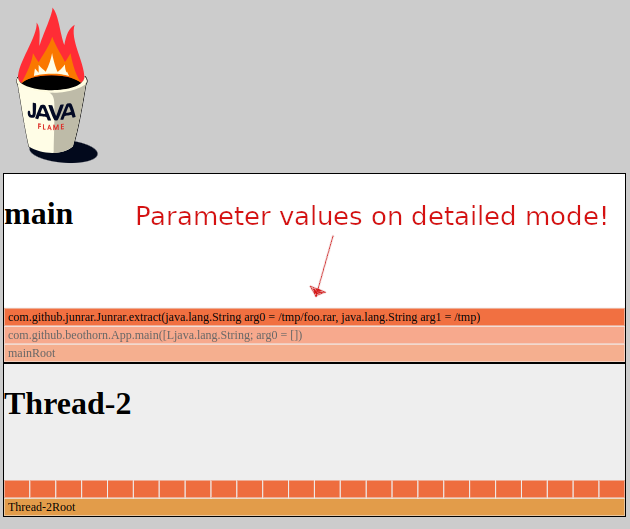
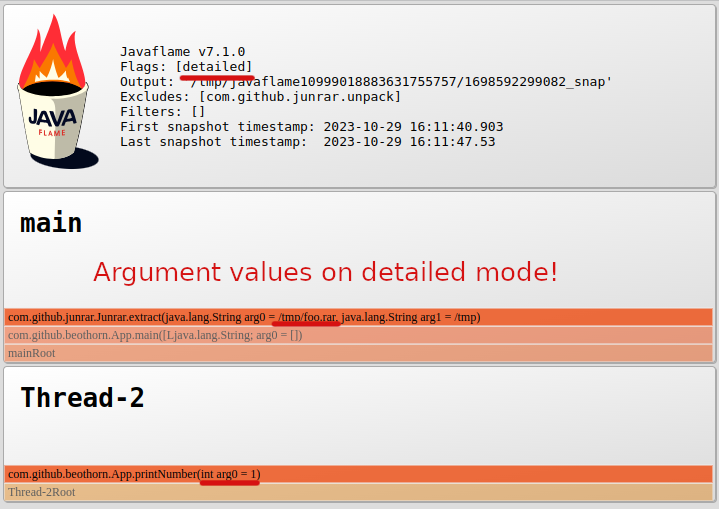
Improved output with metadata

diff --git a/javaAgent/src/main/resources/com/github/beothorn/agent/index.html b/javaAgent/src/main/resources/com/github/beothorn/agent/index.html
@@ -5,13 +5,55 @@
     <link rel="stylesheet" type="text/css" href="style.css">
 </head>
 <body>
-<img width="100px" src="./logo.svg"><img/>
+
+<div id="header" class="box">
+    <img id="logo" width="100px" src="./logo.svg"/>
+    <div id="metadata">
+        <p>Javaflame v7.1.0</p>
+        <p id="arguments"></p>
+        <p>First snapshot timestamp: <span id="startTimestamp"></span></p>
+        <p>Last snapshot timestamp: &nbsp;<span id="finalTimestamp"></span></p>
+    </div>
+</div>
+
 <div id="charts"></div>
 <script type="text/javascript" src="d3.v7.js"></script>
 <script type="text/javascript" src="d3-flamegraph.min.js"></script>
 <script type="text/javascript" src="data.js"></script>
 <script type="text/javascript" src="code.js"></script>
 <script type="text/javascript">
+
+    const argumentsField = document.getElementById("arguments");
+    argumentsField.innerHTML = executionMetadata;
+
+    const firstSnapshot = document.getElementById("startTimestamp");
+    const firstSnapshotTimestamp = data[0][0].snapshotTime;
+    const firstSnapshotDate = new Date(firstSnapshotTimestamp);
+    const firstSnapshotTimestampFormatted = 
+        `${firstSnapshotDate.getFullYear()}-`+
+        `${firstSnapshotDate.getMonth()+1}-`+
+        `${firstSnapshotDate.getDate()} `+
+        `${firstSnapshotDate.getHours()}:`+
+        `${firstSnapshotDate.getMinutes()}:`+
+        `${firstSnapshotDate.getSeconds()}.`+
+        `${firstSnapshotDate.getMilliseconds()}`;
+    firstSnapshot.appendChild(document.createTextNode(firstSnapshotTimestampFormatted));
+
+    const finalSnapshot = document.getElementById("finalTimestamp");
+    const finalSnapshotTimestamp = data[data.length-1][0].snapshotTime;
+    
+    const lastSnapshot = document.getElementById("finalTimestamp");
+    const lastSnapshotTimestamp = data[data.length-1][0].snapshotTime;
+    const lastSnapshotDate = new Date(lastSnapshotTimestamp);
+    const lastSnapshotTimestampFormatted = 
+        `${lastSnapshotDate.getFullYear()}-`+
+        `${lastSnapshotDate.getMonth()+1}-`+
+        `${lastSnapshotDate.getDate()} `+
+        `${lastSnapshotDate.getHours()}:`+
+        `${lastSnapshotDate.getMinutes()}:`+
+        `${lastSnapshotDate.getSeconds()}.`+
+        `${lastSnapshotDate.getMilliseconds()}`;
+    lastSnapshot.appendChild(document.createTextNode(lastSnapshotTimestampFormatted));
 
     const charts = document.getElementById("charts");
 
@@ -20,20 +62,17 @@
 
     for(let i = 0; i < mergedData.length; i++){
         const newDiv = document.createElement("div");
-        if(i%2==0){
-            newDiv.className = "threadChartLight";
-        }else{
-            newDiv.className = "threadChartDark";
-        }
+        newDiv.classList.add("box");
         newDiv.id = "chart"+i;
         const threadName = document.createElement("h1");
+        threadName.classList.add("threadName");
         threadName.appendChild(document.createTextNode(mergedData[i].thread));
         newDiv.appendChild(threadName);
         charts.appendChild(newDiv);
         // get div charts width
         const chartsWidth = charts.offsetWidth;
 
-        var chart = flamegraph().width(chartsWidth - 2); // minus border
+        var chart = flamegraph().width(chartsWidth - 10); // minus border
 
         d3.select("#"+newDiv.id)
             .datum(mergedData[i].span)

diff --git a/javaAgent/src/main/resources/com/github/beothorn/agent/data.js b/javaAgent/src/main/resources/com/github/beothorn/agent/data.js
@@ -1,0 +1,33 @@
+var executionMetadata = "some arguments";
+
+var data = [[
+{"thread":"main","snapshotTime":1698585698020,"span":{"name":"mainRoot","entryTime":1698585697056,"exitTime":1698585697452,"value":396,"children":[{"name":"com.github.beothorn.App.main([Ljava.lang.String; arg0 = [])","entryTime":1698585697056,"exitTime":1698585697452,"value":396,"children":[{"name":"com.github.junrar.Junrar.extract(java.lang.String arg0 = /tmp/foo.rar, java.lang.String arg1 = /tmp)","entryTime":1698585697254,"exitTime":1698585697452,"value":198,"children":[{"name":"com.github.junrar.Junrar.validateRarPath(java.io.File arg0 = /tmp/foo.rar)","entryTime":1698585697452,"exitTime":1698585697452,"value":0}
+]}
+]}
+]}
+},{"thread":"Thread-2","snapshotTime":1698585698054,"span":{"name":"Thread-2Root","entryTime":1698585697061,"exitTime":-1,"value":0,"children":[{"name":"com.github.beothorn.App.printNumber(int arg0 = 0)","entryTime":1698585697061,"exitTime":1698585697261,"value":200}
+,{"name":"com.github.beothorn.App.printNumber(int arg0 = 1)","entryTime":1698585697270,"exitTime":1698585697470,"value":200}
+,{"name":"com.github.beothorn.App.printNumber(int arg0 = 2)","entryTime":1698585697470,"exitTime":1698585697670,"value":200}
+,{"name":"com.github.beothorn.App.printNumber(int arg0 = 3)","entryTime":1698585697670,"exitTime":1698585697871,"value":201}
+]}
+}
+],
+[
+{"thread":"Thread-2","snapshotTime":1698585699057,"span":{"name":"Thread-2Root","entryTime":1698585697061,"exitTime":-1,"value":0,"children":[{"name":"com.github.beothorn.App.printNumber(int arg0 = 4)","entryTime":1698585697871,"exitTime":1698585698071,"value":200}
+,{"name":"com.github.beothorn.App.printNumber(int arg0 = 5)","entryTime":1698585698071,"exitTime":1698585698271,"value":200}
+,{"name":"com.github.beothorn.App.printNumber(int arg0 = 6)","entryTime":1698585698272,"exitTime":1698585698472,"value":200}
+,{"name":"com.github.beothorn.App.printNumber(int arg0 = 7)","entryTime":1698585698472,"exitTime":1698585698672,"value":200}
+,{"name":"com.github.beothorn.App.printNumber(int arg0 = 8)","entryTime":1698585698672,"exitTime":1698585698873,"value":201}
+]}
+}
+],
+[
+{"thread":"Thread-2","snapshotTime":1698585700061,"span":{"name":"Thread-2Root","entryTime":1698585697061,"exitTime":-1,"value":0,"children":[{"name":"com.github.beothorn.App.printNumber(int arg0 = 9)","entryTime":1698585698873,"exitTime":1698585699073,"value":200}
+,{"name":"com.github.beothorn.App.printNumber(int arg0 = 10)","entryTime":1698585699074,"exitTime":1698585699274,"value":200}
+,{"name":"com.github.beothorn.App.printNumber(int arg0 = 11)","entryTime":1698585699274,"exitTime":1698585699475,"value":201}
+,{"name":"com.github.beothorn.App.printNumber(int arg0 = 12)","entryTime":1698585699475,"exitTime":1698585699675,"value":200}
+,{"name":"com.github.beothorn.App.printNumber(int arg0 = 13)","entryTime":1698585699675,"exitTime":1698585699876,"value":201}
+]}
+}
+],
+];

diff --git a/javaAgent/src/main/resources/com/github/beothorn/agent/style.css b/javaAgent/src/main/resources/com/github/beothorn/agent/style.css
@@ -1,12 +1,43 @@
 body {
-    background: #ccc;
+    margin: 0;
+    padding: 0;
+    background: #ddd;
 }
 
-.threadChartLight {
-    background: #fff;
-    border: 1px solid #000;
+.box {
+    border: 1px solid #aaa;
+    border-radius: 4px;
+    margin: 3px;
+    box-shadow: 1px 1px 0px 0px #aaa;
+    background-image: linear-gradient(to bottom right, white, #dbdbdb);
 }
-.threadChartDark {
-    background: #eee;
-    border: 1px solid #000;
+
+#header {
+    padding: 1rem;
+    height: 150px;
+}
+
+#metadata {
+    display: flex;
+    align-items: flex-start;
+    justify-content: center;
+    flex-direction: column;
+    height: 150px;
+}
+
+#header p {
+    margin: 0;
+    padding: 0;
+    font-family: monospace;
+}
+
+#logo {
+    float: left;
+    margin: -1rem;
+    margin-right: 1rem;
+}
+
+.threadName {
+    margin: 1rem;
+    font-family: monospace;
 }

diff --git a/javaAgent/src/main/java/com/github/beothorn/agent/MethodInstrumentationAgent.java b/javaAgent/src/main/java/com/github/beothorn/agent/MethodInstrumentationAgent.java
@@ -28,7 +28,7 @@ public class MethodInstrumentationAgent {
 
     private static File snapshotDirectory;
 
-    private static long SAVE_SNAPSHOT_INTERVAL_MILLIS = 1000L;
+    private static final long SAVE_SNAPSHOT_INTERVAL_MILLIS = 1000L;
 
     public enum Flag{
 
@@ -123,11 +123,17 @@ public class MethodInstrumentationAgent {
         List<String> excludes = argumentExcludes(argument);
         List<String> filters = argumentFilter(argument);
 
-        log(DEBUG, " logLevel :" + currentLevel.name()
-                + " flags:" + Arrays.toString(Flag.allFlagsOnArgument(argument))
+        String executionMetadata = "logLevel :" + currentLevel.name()
+                + " flags:" + Arrays.toString(allFlagsOnArgument(argument))
                 + " output to '" + snapshotDirectory.getAbsolutePath() + "'"
                 + " excludes:" + Arrays.toString(excludes.toArray())
-                + " filters:" + Arrays.toString(filters.toArray()));
+                + " filters:" + Arrays.toString(filters.toArray());
+        log(DEBUG, executionMetadata);
+
+        String executionMetadataFormatted = "<p>Flags: " + Arrays.toString(allFlagsOnArgument(argument)) + "</p>"
+                + "<p>Output: '" + snapshotDirectory.getAbsolutePath() + "'</p>"
+                + "<p>Excludes: " + Arrays.toString(excludes.toArray()) + "</p>"
+                + "<p>Filters: " + Arrays.toString(filters.toArray()) + "</p>";
 
         ElementMatcher.Junction<TypeDescription> argumentsMatcher = getMatcherFromAruments(excludes, filters);
 
@@ -165,7 +171,8 @@ public class MethodInstrumentationAgent {
                             log(INFO, "Snapshot '" + dataFile.getAbsolutePath() + "'");
                         } else {
                             try (FileWriter fw = new FileWriter(dataFile)) {
-                                String content = "var data = [" + oldCallStack + ",\n];";
+                                String content = "var executionMetadata = \""+executionMetadataFormatted+"\";\n" +
+                                        "var data = [" + oldCallStack + ",\n];";
                                 fw.write(content);
                                 fw.flush();
                             } catch (IOException e) {

diff --git a/README.md b/README.md
@@ -2,17 +2,11 @@
 
 Simple and easy flame graph for java.  
 No servers or open connections, just plug the agent and get the results.  
-[Latest release v7.0.1](https://github.com/beothorn/javaflame/releases/download/v7.0.1/javaAgent.jar)
+[Latest release v7.1.0](https://github.com/beothorn/javaflame/releases/download/v7.1.0/javaAgent.jar)
 
-# Screenshots
-
-Detailed mode (for debugging):  
+# Screenshots  
 
 ![flamegraph detailed](https://github.com/beothorn/javaflame/blob/main/screenshotDetailed.png?raw=true)
-
-Performance:  
-
-![flamegraph](https://github.com/beothorn/javaflame/blob/main/screenshot.png?raw=true)
 
 ## Usage
 
